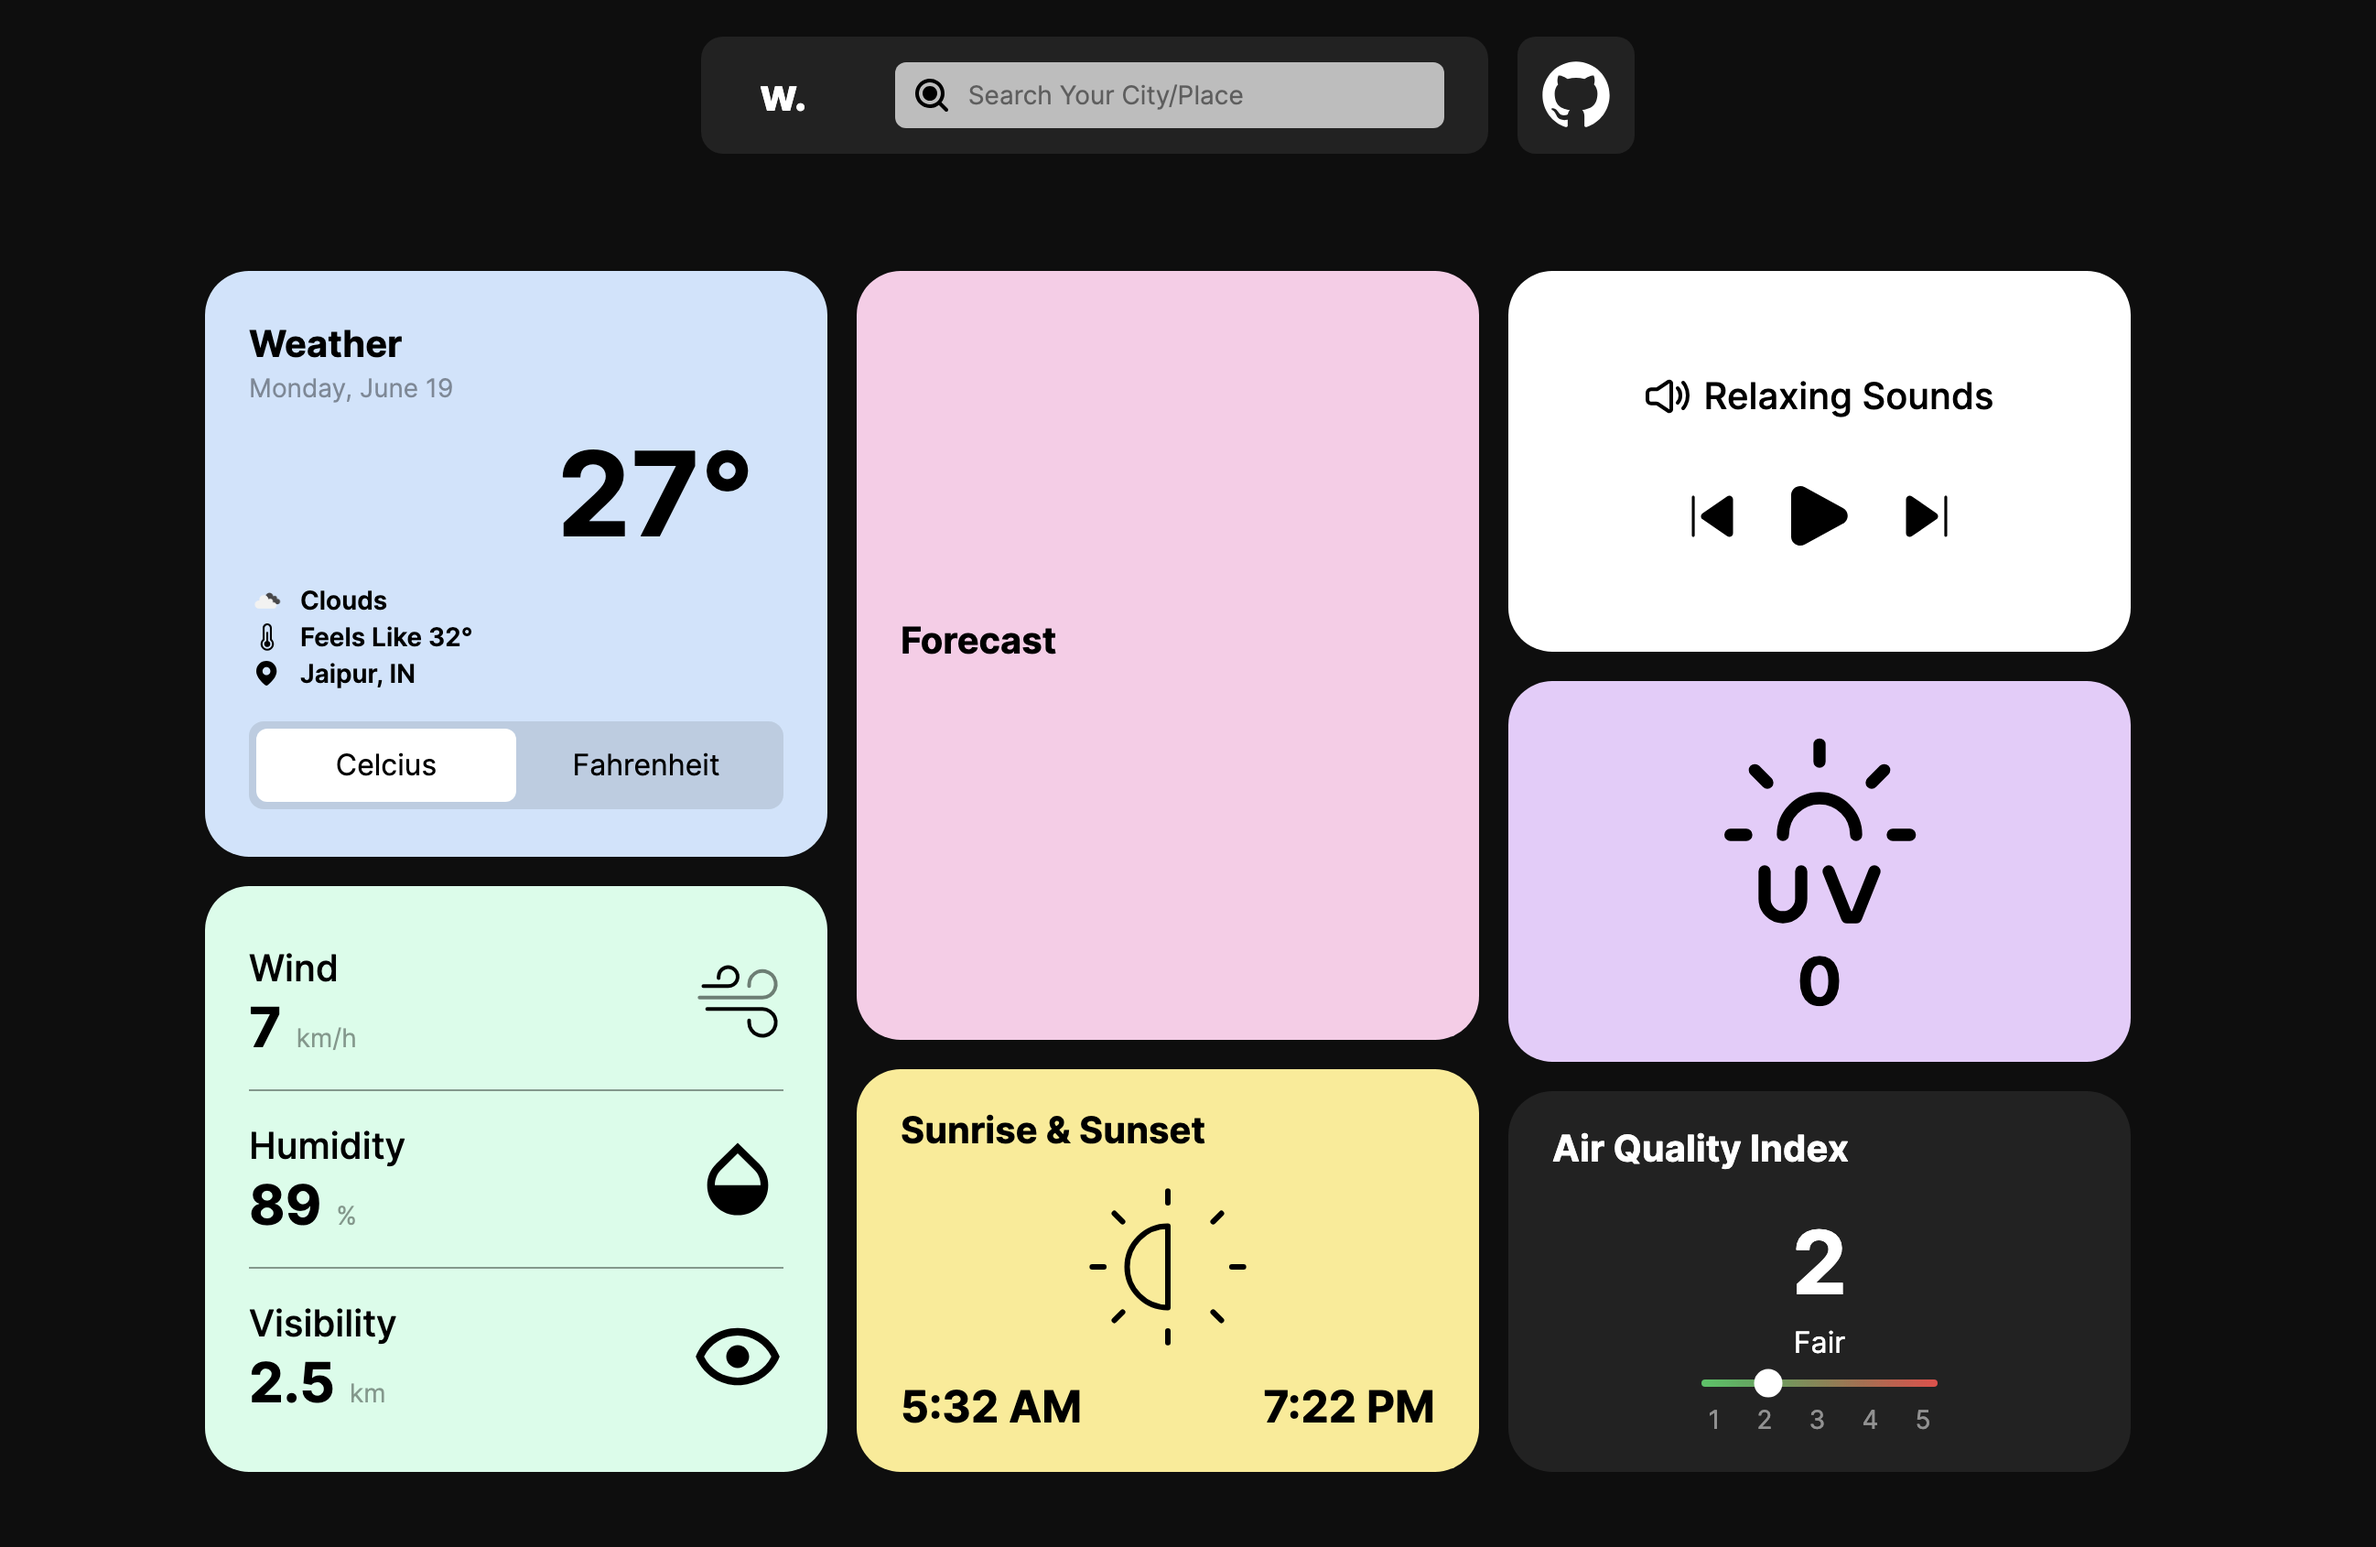
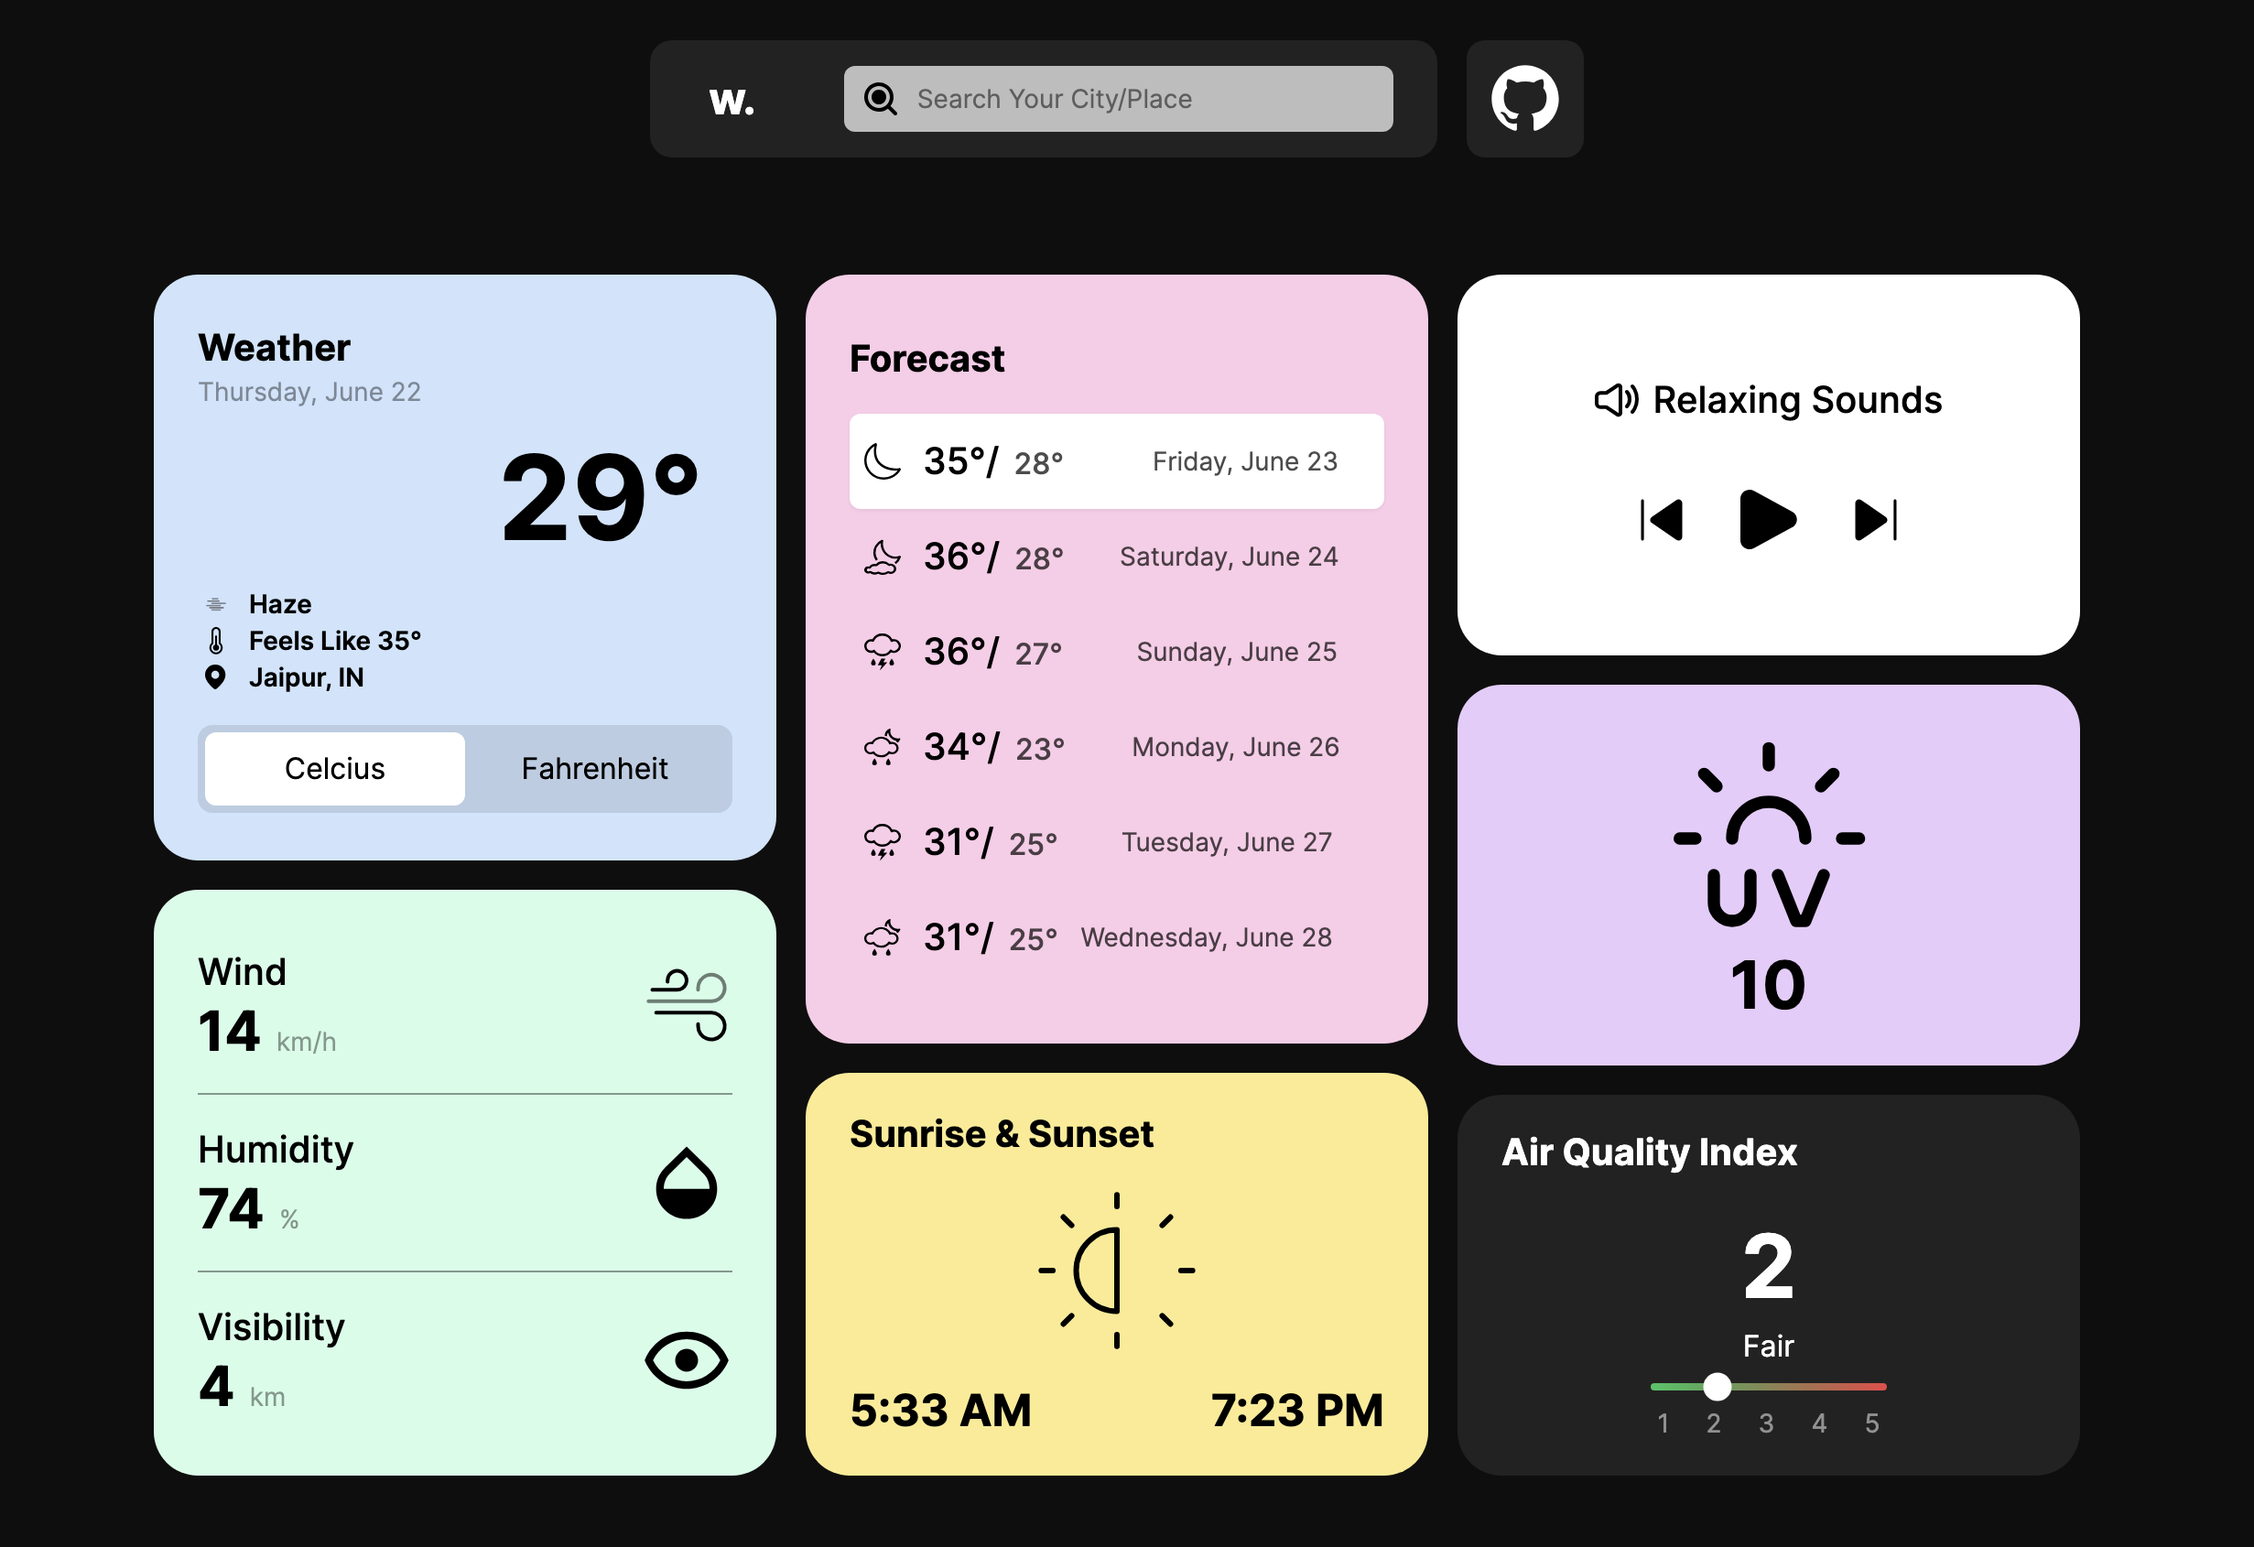
updated readme

diff --git a/README.md b/README.md
@@ -1,7 +1,5 @@
 # w. | The Weather App Created with Astro 🌦
 
-### ⚠ You Will Find Some Data Missing Due to the `FREE API` Tier 🙃 Limit Reached.
-
 ![weather_app](/src/assets/home.png)
 
 ## Local Setup
